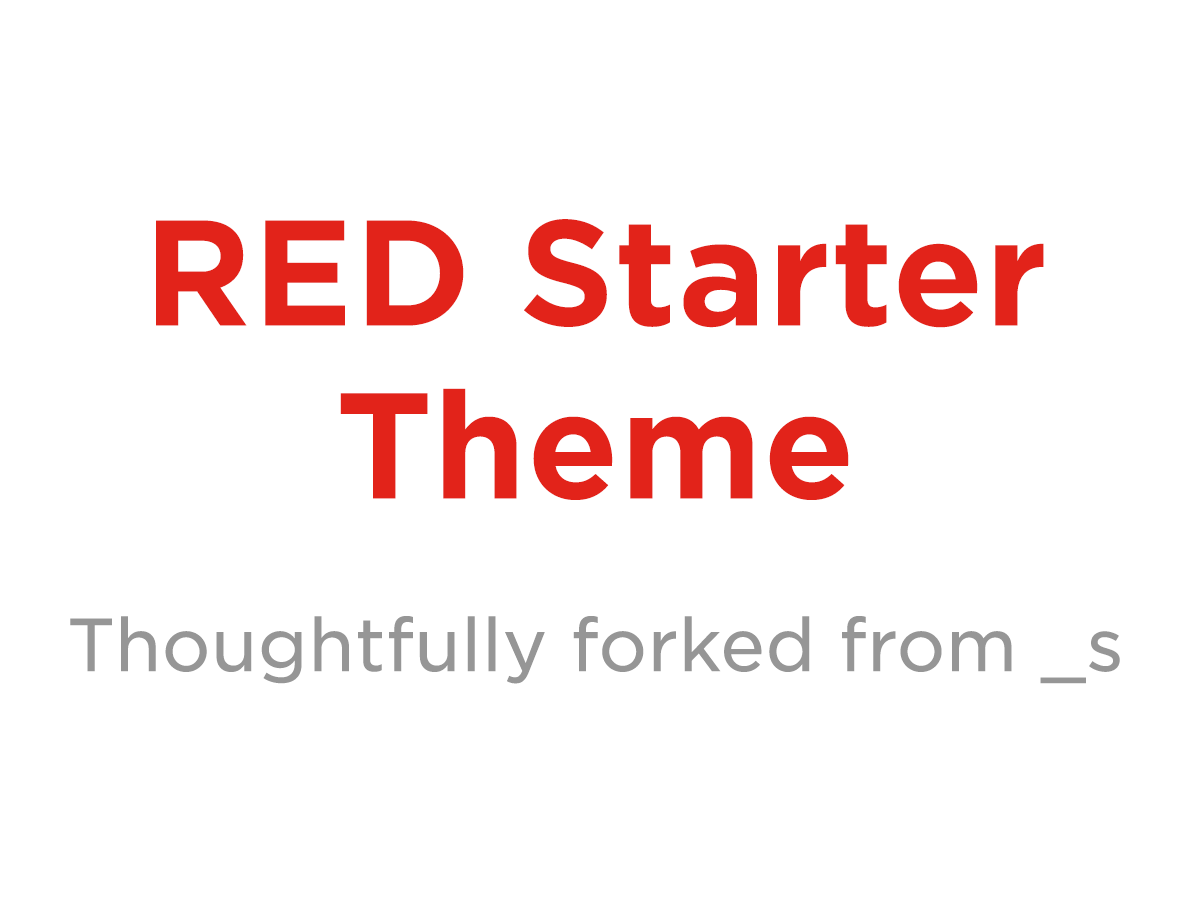
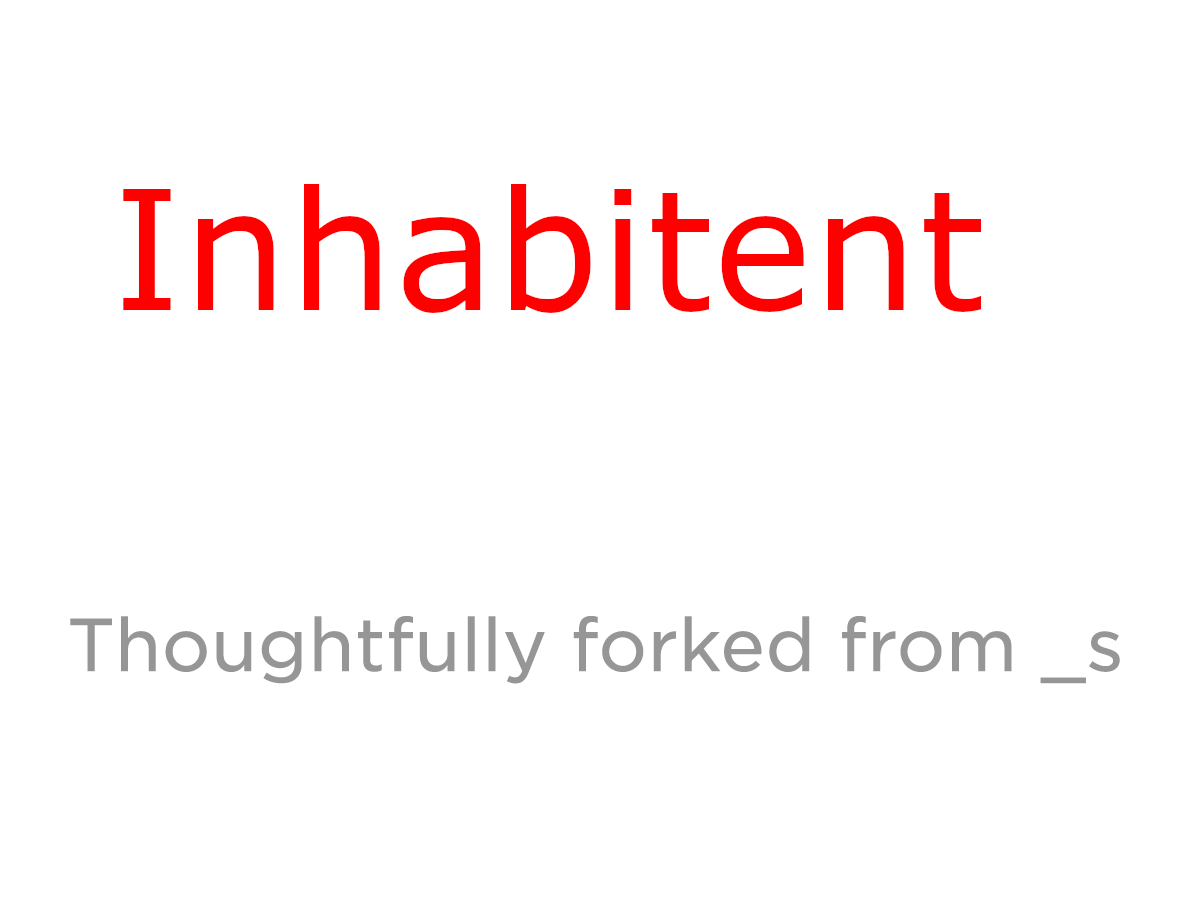
changed redstarter tags to inhabitent & updated metatags in json and style sheet

Changed region(s): [[0.0925, 0.1867, 0.8942, 0.3733], [0.2775, 0.4356, 0.7092, 0.56]]

diff --git a/themes/inhabitent/style.css b/themes/inhabitent/style.css
@@ -1,9 +1,9 @@
 /*!
 Theme Name: Inhabitent Theme
 Theme URI: http://underscores.me/
-Author: RED Academy
+Author: Rob Monga
 Author URI: http://www.redacademy.com
-Description: A WordPress starter theme for RED Academy students.
+Description: A WordPress starter theme by RED Academy students.
 Version: 1.0.0
 License: GNU General Public License v2 or later
 License URI: http://www.gnu.org/licenses/gpl-2.0.html

diff --git a/themes/inhabitent/functions.php b/themes/inhabitent/functions.php
@@ -1,17 +1,17 @@
 <?php
 /**
- * RED Starter Theme functions and definitions.
+ * Inhabitent Theme functions and definitions.
  *
  * @link https://developer.wordpress.org/themes/basics/theme-functions/
  *
- * @package RED_Starter_Theme
+ * @package Inhabitent_Theme
  */
 
-if ( ! function_exists( 'red_starter_setup' ) ) :
+if ( ! function_exists( 'rinhabitentr_setup' ) ) :
 /**
  * Sets up theme defaults and registers support for various WordPress features.
  */
-function red_starter_setup() {
+function inhabitent_setup() {
 	// Add default posts and comments RSS feed links to head.
 	add_theme_support( 'automatic-feed-links' );
 
@@ -36,25 +36,25 @@ function red_starter_setup() {
 	) );
 
 }
-endif; // red_starter_setup
-add_action( 'after_setup_theme', 'red_starter_setup' );
+endif; // inhabitent_setup
+add_action( 'after_setup_theme', 'inhabitent_setup' );
 
 /**
  * Set the content width in pixels, based on the theme's design and stylesheet.
  *
  * @global int $content_width
  */
-function red_starter_content_width() {
-	$GLOBALS['content_width'] = apply_filters( 'red_starter_content_width', 640 );
+function inhabitent_content_width() {
+	$GLOBALS['content_width'] = apply_filters( 'inhabitent_content_width', 640 );
 }
-add_action( 'after_setup_theme', 'red_starter_content_width', 0 );
+add_action( 'after_setup_theme', 'inhabitent_content_width', 0 );
 
 /**
  * Register widget area.
  *
  * @link https://developer.wordpress.org/themes/functionality/sidebars/#registering-a-sidebar
  */
-function red_starter_widgets_init() {
+function inhabitent_widgets_init() {
 	register_sidebar( array(
 		'name'          => esc_html( 'Sidebar' ),
 		'id'            => 'sidebar-1',
@@ -65,24 +65,24 @@ function red_starter_widgets_init() {
 		'after_title'   => '</h2>',
 	) );
 }
-add_action( 'widgets_init', 'red_starter_widgets_init' );
+add_action( 'widgets_init', 'inhabitent_widgets_init' );
 
 /**
  * Filter the stylesheet_uri to output the minified CSS file.
  */
-function red_starter_minified_css( $stylesheet_uri, $stylesheet_dir_uri ) {
+function inhabitent_minified_css( $stylesheet_uri, $stylesheet_dir_uri ) {
 	if ( file_exists( get_template_directory() . '/build/css/style.min.css' ) ) {
 		$stylesheet_uri = $stylesheet_dir_uri . '/build/css/style.min.css';
 	}
 
 	return $stylesheet_uri;
 }
-add_filter( 'stylesheet_uri', 'red_starter_minified_css', 10, 2 );
+add_filter( 'stylesheet_uri', 'inhabitent_minified_css', 10, 2 );
 
 /**
  * Enqueue scripts and styles.
  */
-function red_starter_scripts() {
+function inhabitent_scripts() {
 	wp_enqueue_style('font-awesome-cdn', 'https://use.fontawesome.com/releases/v5.7.2/css/all.css', array(), 'Version 5.7.2');
 	wp_enqueue_style( 'red-starter-style', get_stylesheet_uri() );
 
@@ -93,7 +93,7 @@ function red_starter_scripts() {
 		wp_enqueue_script( 'comment-reply' );
 	}
 }
-add_action( 'wp_enqueue_scripts', 'red_starter_scripts' );
+add_action( 'wp_enqueue_scripts', 'inhabitent_scripts' );
 
 /**
  * Custom template tags for this theme.

diff --git a/themes/inhabitent/header.php b/themes/inhabitent/header.php
@@ -2,7 +2,7 @@
 /**
  * The header for our theme.
  *
- * @package RED_Starter_Theme
+ * @package Inhabitent_Theme
  */
 
 ?><!DOCTYPE html>

diff --git a/themes/inhabitent/footer.php b/themes/inhabitent/footer.php
@@ -2,7 +2,7 @@
 /**
  * The template for displaying the footer.
  *
- * @package RED_Starter_Theme
+ * @package Inhabitent_Theme
  */
 
 ?>

diff --git a/themes/inhabitent/index.php b/themes/inhabitent/index.php
@@ -2,7 +2,7 @@
 /**
  * The main template file.
  *
- * @package RED_Starter_Theme
+ * @package Inhabitent_Theme
  */
 
 get_header(); ?>

diff --git a/README.md b/README.md
@@ -1,0 +1,21 @@
+# Inhabitent Project
+This is a project to showcase HTML/CSS, Wordpress
+
+## Skills learned
+
+- HTML/CSS
+-Responsive Web Design
+-Wordpress
+-PHP
+-WAMP server stack and database creation using mySQL
+
+## Assets Used:
+
+
+##Personal Learnings
+
+##installation requirements
+Gulp
+Database WAMP
+Wordpress info
+
